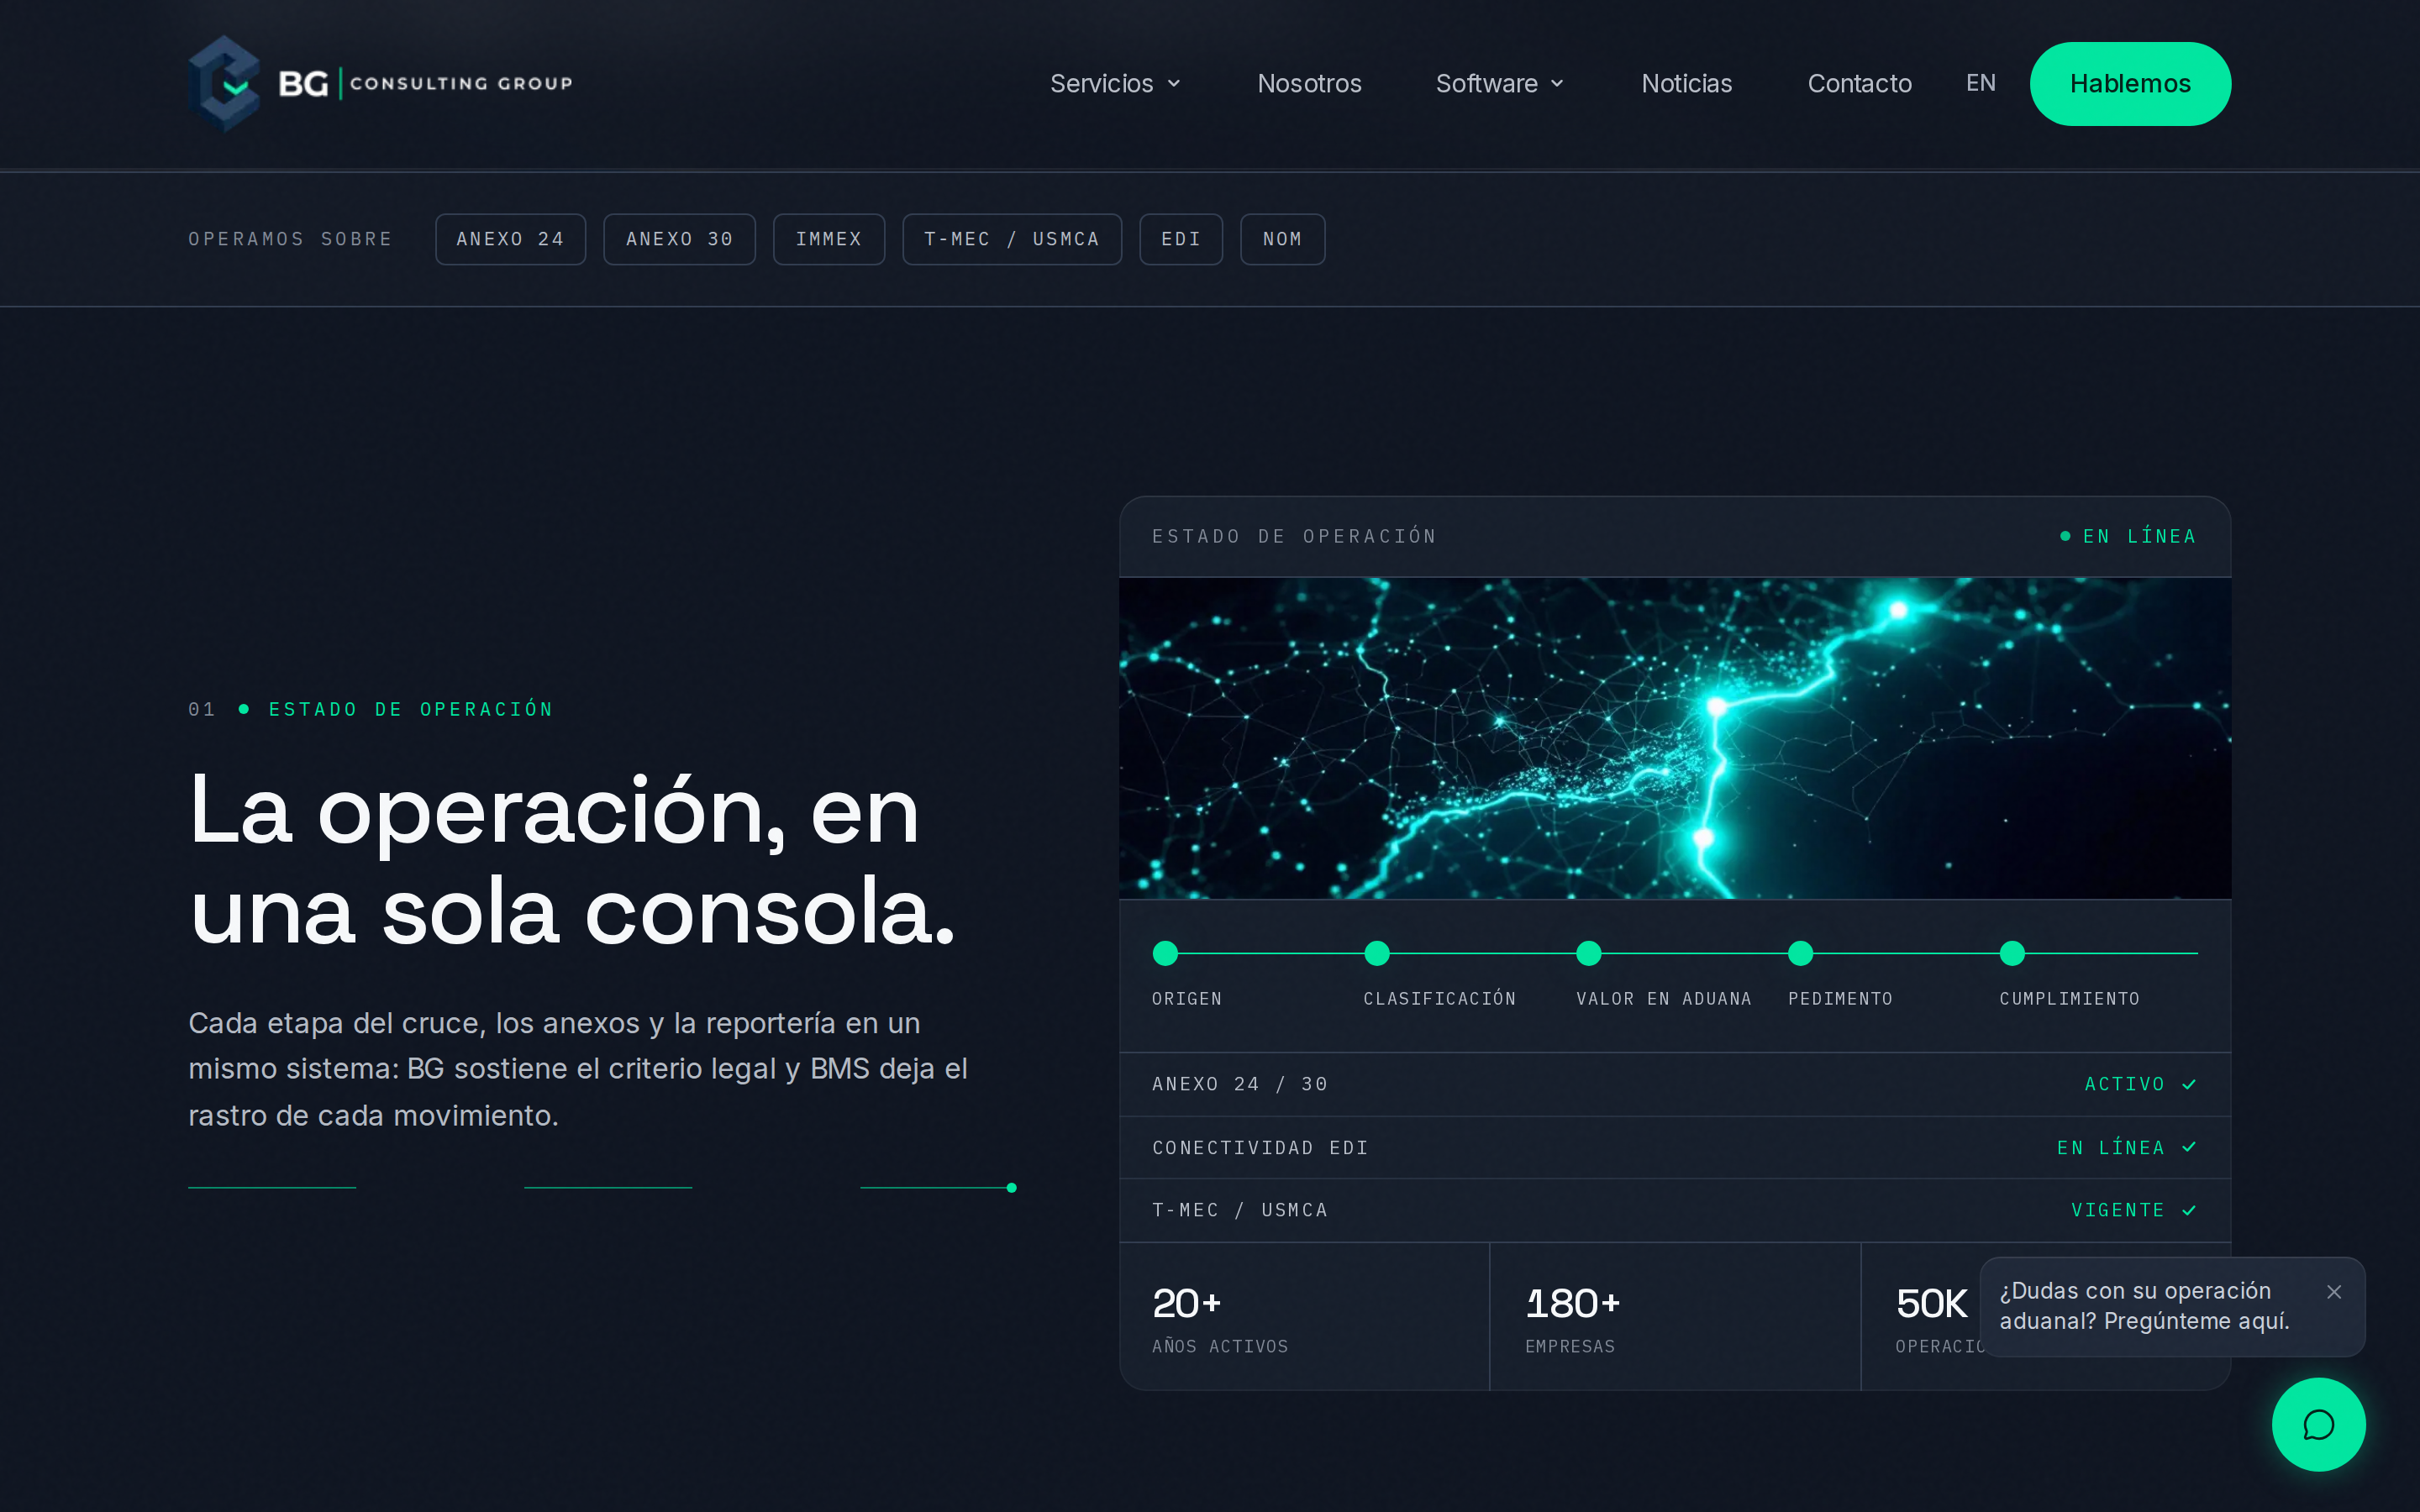
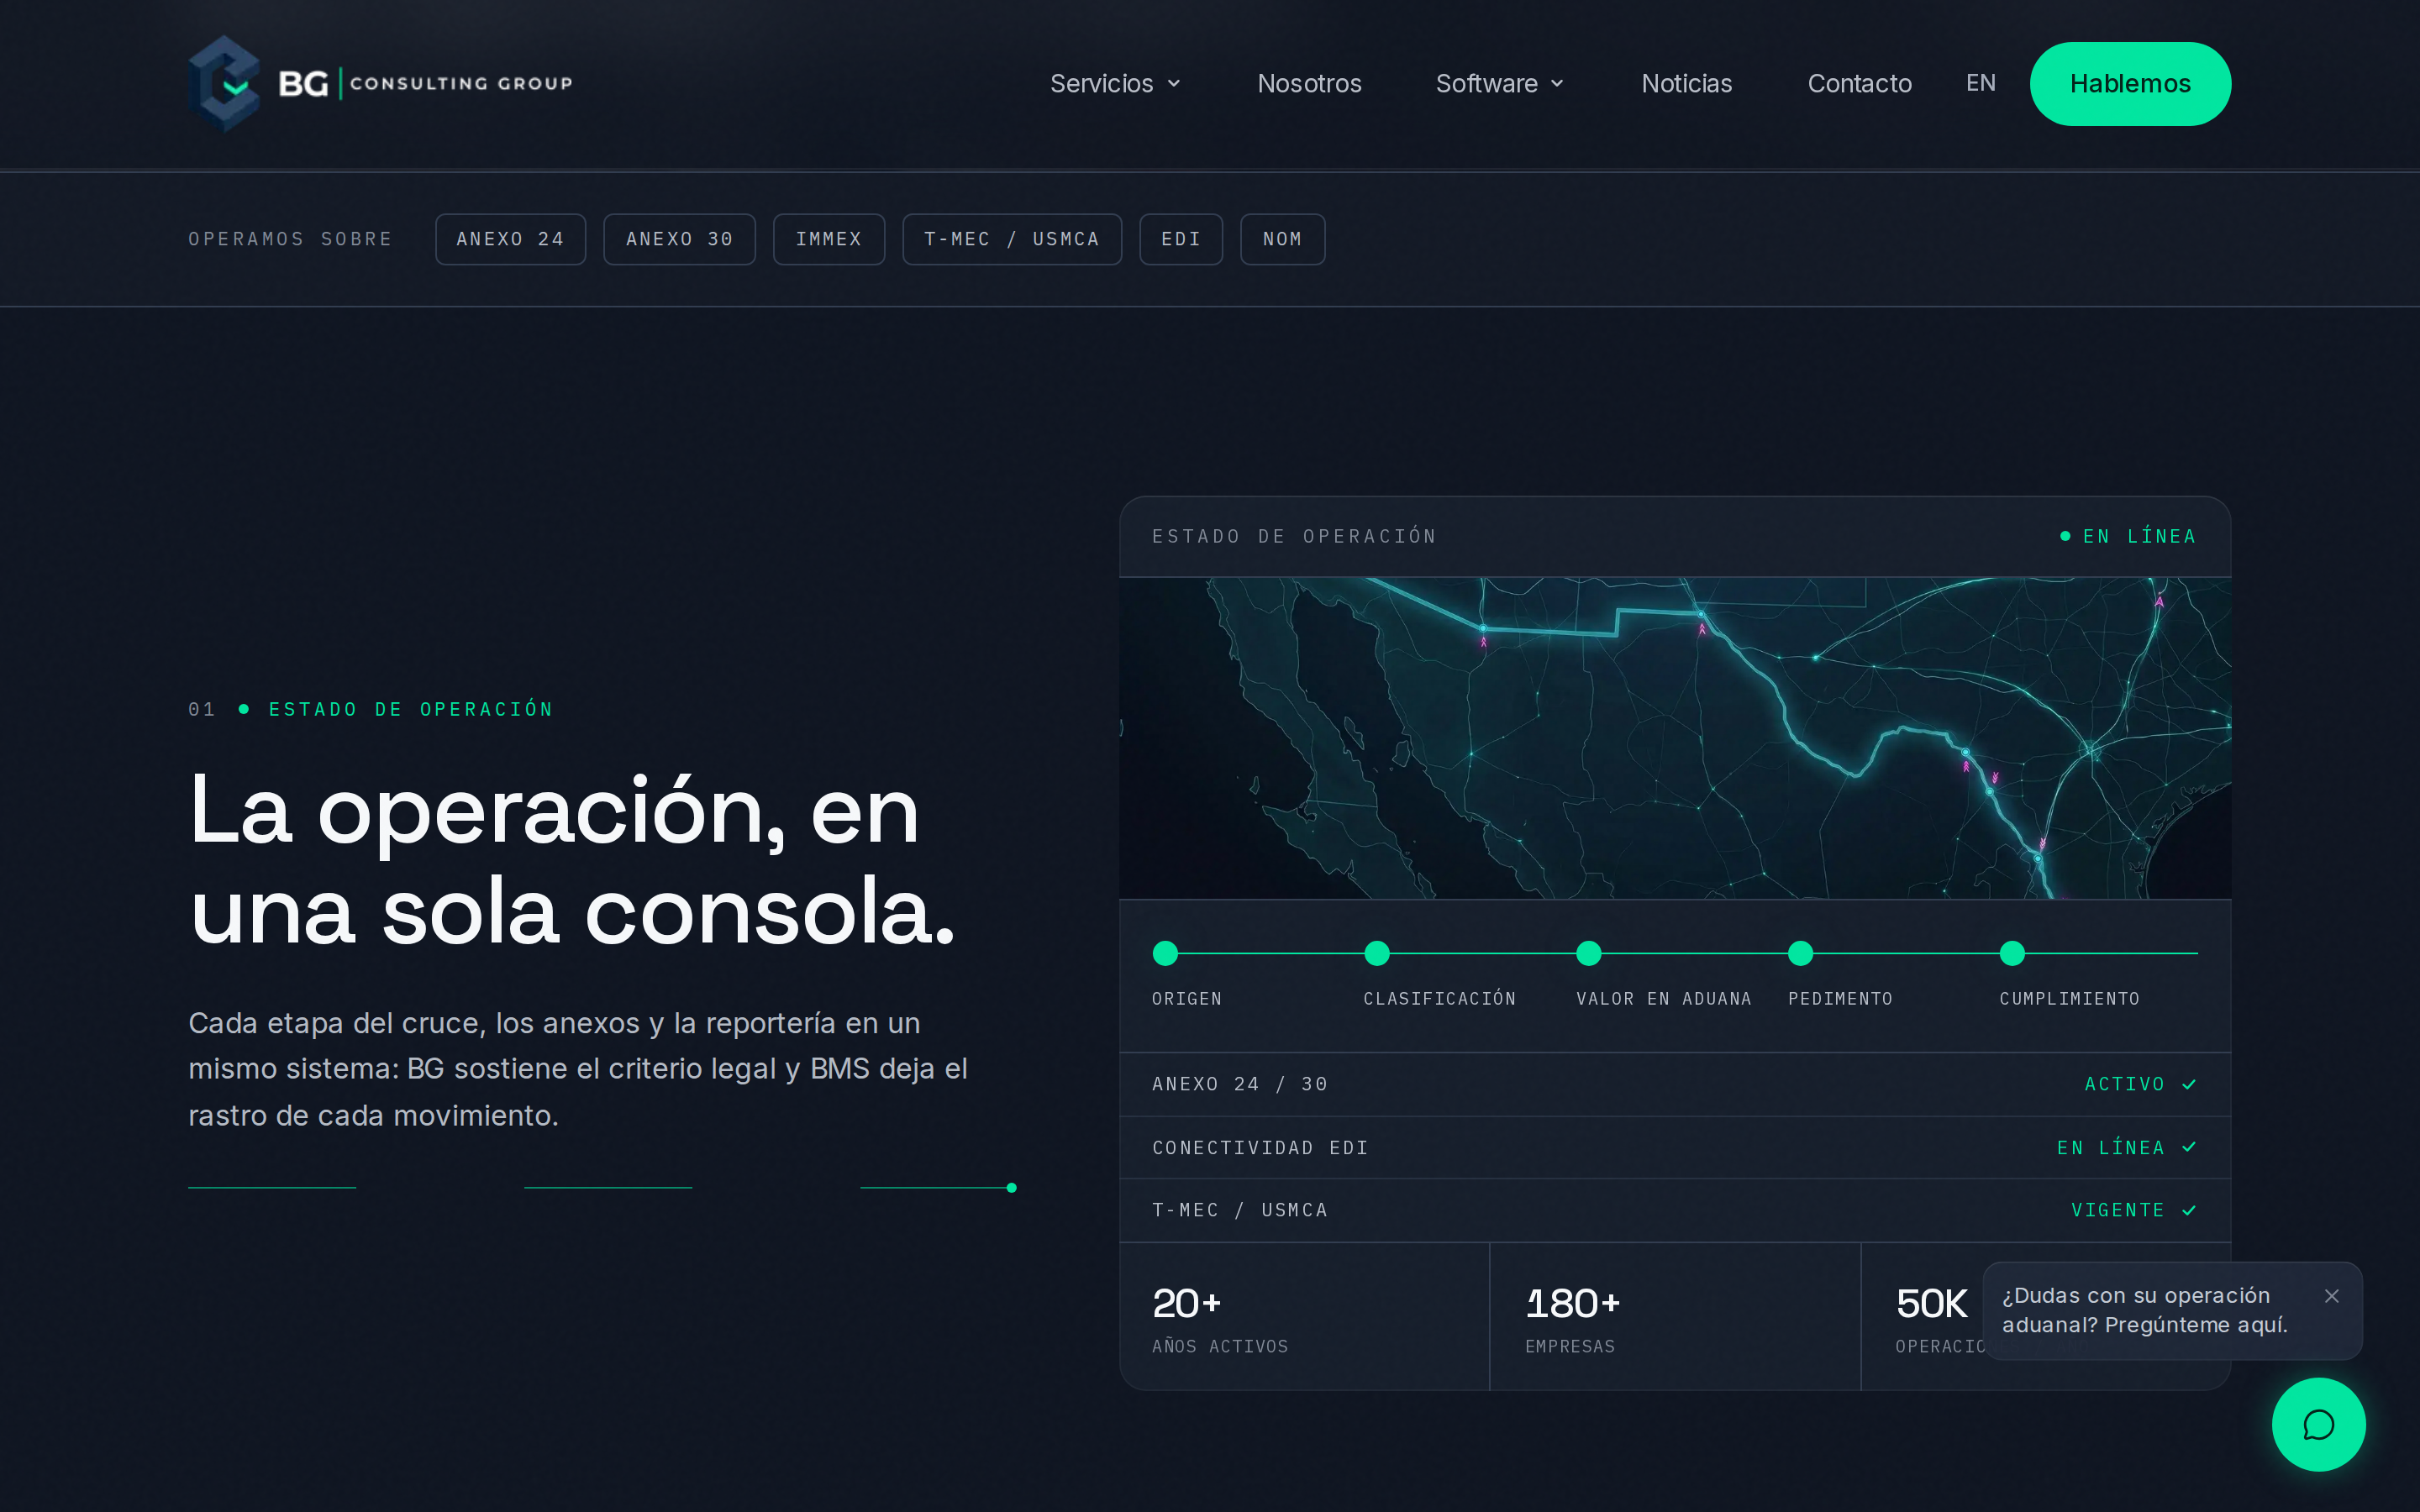
Deck + home: mapa MX-USA en telemetría, blog con maquiladora, ajustes de pauta
Sitio:
- Home 'Estado de operación': corredor cambiado al mapa MX-USA (corridor-map.webp).
- Blog: foto de maquiladora para el artículo de IMMEX (cover local).

Deck /presentacion-junio:
- Chatbot movido a justo después de 'Inicio' en la slide del sitio.
- Keywords de pauta: 'reglas de origen T-MEC' en vez de 'abogado aduanero',
  + VUCEM y Portal ADUANAS SAT.
- Card de email 04 -> 'Del correo a la llamada'.
- Cierre: '...y un plan para atraer clientes.'
- Capturas de telemetría y blog actualizadas.

Changed region(s): [[0.4688, 0.3733, 0.9375, 0.6222], [0.8125, 0.84, 0.9375, 0.9022], [0.4688, 0.56, 0.5, 0.5911]]

diff --git a/src/components/presentacion/slides/s04-sitio.tsx b/src/components/presentacion/slides/s04-sitio.tsx
@@ -1,3 +1,4 @@
+import { Fragment } from "react";
 import Image from "next/image";
 import { Slide } from "../Slide";
 import { SlideHead, ShotRow } from "../ui";
@@ -49,51 +50,57 @@ export function S04Sitio() {
       />
 
       <div className="flex flex-col gap-12">
-        {paginas.map((p) => (
-          <ShotRow
-            key={p.title}
-            index={p.index}
-            title={p.title}
-            desc={p.desc}
-            src={p.shot.src}
-            url={p.shot.url}
-            priority={p.priority}
-          />
+        {paginas.map((p, i) => (
+          <Fragment key={p.title}>
+            <ShotRow
+              index={p.index}
+              title={p.title}
+              desc={p.desc}
+              src={p.shot.src}
+              url={p.shot.url}
+              priority={p.priority}
+            />
+            {i === 0 && <ChatbotBlock />}
+          </Fragment>
         ))}
-
-        {/* Chatbot: primera atención automatizada */}
-        <div className="console-panel grid gap-7 rounded-[16px] bg-surface-1 p-7 lg:grid-cols-[1fr_0.95fr] lg:items-center sm:p-9">
-          <div>
-            <span className="flex items-center gap-2 font-mono text-[11px] uppercase tracking-[0.16em] text-accent">
-              <span aria-hidden className="material-symbols-outlined" style={{ fontSize: 16 }}>forum</span>
-              Asistente con IA
-            </span>
-            <h3 className="mt-4 font-display text-[26px] font-medium tracking-[-0.015em] text-chalk sm:text-3xl">
-              {chatbot.title}
-            </h3>
-            <p className="mt-3 max-w-md text-[14px] leading-relaxed text-bone/90">{chatbot.body}</p>
-            <ul className="mt-6 flex flex-col gap-3 border-t border-line pt-6">
-              {chatbot.puntos.map((pt) => (
-                <li key={pt} className="flex items-start gap-3 text-[14px] leading-snug text-bone/90">
-                  <span aria-hidden className="mt-1.5 h-1 w-1 shrink-0 rounded-full bg-accent" />
-                  {pt}
-                </li>
-              ))}
-            </ul>
-          </div>
-
-          <div className="relative mx-auto w-full max-w-[360px] overflow-hidden rounded-[14px] border border-line bg-ink card-elev">
-            <div className="relative aspect-[3/4] w-full">
-              <Image
-                src={shots.chatbot.src}
-                alt="Asistente del sitio respondiendo una consulta"
-                fill
-                className="object-cover object-top"
-              />
-            </div>
-          </div>
-        </div>
       </div>
     </Slide>
+  );
+}
+
+/* Chatbot: primera atención automatizada. Va justo después de "Inicio". */
+function ChatbotBlock() {
+  return (
+    <div className="console-panel grid gap-7 rounded-[16px] bg-surface-1 p-7 lg:grid-cols-[1fr_0.95fr] lg:items-center sm:p-9">
+      <div>
+        <span className="flex items-center gap-2 font-mono text-[11px] uppercase tracking-[0.16em] text-accent">
+          <span aria-hidden className="material-symbols-outlined" style={{ fontSize: 16 }}>forum</span>
+          Asistente con IA
+        </span>
+        <h3 className="mt-4 font-display text-[26px] font-medium tracking-[-0.015em] text-chalk sm:text-3xl">
+          {chatbot.title}
+        </h3>
+        <p className="mt-3 max-w-md text-[14px] leading-relaxed text-bone/90">{chatbot.body}</p>
+        <ul className="mt-6 flex flex-col gap-3 border-t border-line pt-6">
+          {chatbot.puntos.map((pt) => (
+            <li key={pt} className="flex items-start gap-3 text-[14px] leading-snug text-bone/90">
+              <span aria-hidden className="mt-1.5 h-1 w-1 shrink-0 rounded-full bg-accent" />
+              {pt}
+            </li>
+          ))}
+        </ul>
+      </div>
+
+      <div className="relative mx-auto w-full max-w-[360px] overflow-hidden rounded-[14px] border border-line bg-ink card-elev">
+        <div className="relative aspect-[3/4] w-full">
+          <Image
+            src={shots.chatbot.src}
+            alt="Asistente del sitio respondiendo una consulta"
+            fill
+            className="object-cover object-top"
+          />
+        </div>
+      </div>
+    </div>
   );
 }

diff --git a/src/components/presentacion/data.ts b/src/components/presentacion/data.ts
@@ -89,11 +89,13 @@ export const pauta = {
     body: "Búsqueda en español. Captura a quien ya tiene el problema y lo busca: una revisión, un saldo de IVA atorado, un sistema para Anexo 24.",
     keywords: {
       bg: [
-        "abogado aduanero",
+        "reglas de origen T-MEC",
         "auditoría IMMEX",
         "devolución IVA SAT",
         "recurso de revocación SAT",
         "clasificación arancelaria",
+        "VUCEM",
+        "Portal ADUANAS SAT",
       ],
       bms: [
         "software anexo 24",
@@ -132,9 +134,9 @@ export const pauta = {
       icon: "mail",
     },
     {
-      title: "Conectar canales",
-      body: "Correo, seguido de un toque en LinkedIn al mismo contacto y una llamada cuando hay señal de interés. Aquí se cruzan email, LinkedIn y pauta.",
-      icon: "hub",
+      title: "Del correo a la llamada",
+      body: "Cuando un contacto abre varios correos o visita el sitio, es señal para llamar. El correo abre la puerta; la persona cierra.",
+      icon: "call",
     },
   ],
 };

diff --git a/src/components/site/TelemetryPanel.tsx b/src/components/site/TelemetryPanel.tsx
@@ -45,8 +45,8 @@ export function TelemetryPanel({
       {/* Mapa del corredor (imagen generada) */}
       <div className="relative h-40 overflow-hidden border-b border-line sm:h-48">
         <Image
-          src="/img/gen/corridor.webp"
-          alt="Corredor de datos transfronterizo Tijuana San Diego"
+          src="/img/gen/corridor-map.webp"
+          alt="Corredor de comercio exterior México Estados Unidos"
           fill
           priority
           sizes="(max-width: 1024px) 100vw, 45vw"

diff --git a/src/components/presentacion/slides/s08-cierre.tsx b/src/components/presentacion/slides/s08-cierre.tsx
@@ -14,7 +14,7 @@ export function S08Cierre() {
 
         <h2 className="mt-7 max-w-3xl font-display text-[clamp(2.2rem,6vw,4.4rem)] font-medium leading-[1.0] tracking-[-0.03em] text-chalk">
           Sitio a la medida, panel propio,{" "}
-          <span className="font-serif font-normal italic text-bone">y un plan para atraer.</span>
+          <span className="font-serif font-normal italic text-bone">y un plan para atraer clientes.</span>
         </h2>
 
         <div className="mt-10 grid max-w-3xl gap-3 sm:grid-cols-2 lg:grid-cols-4">